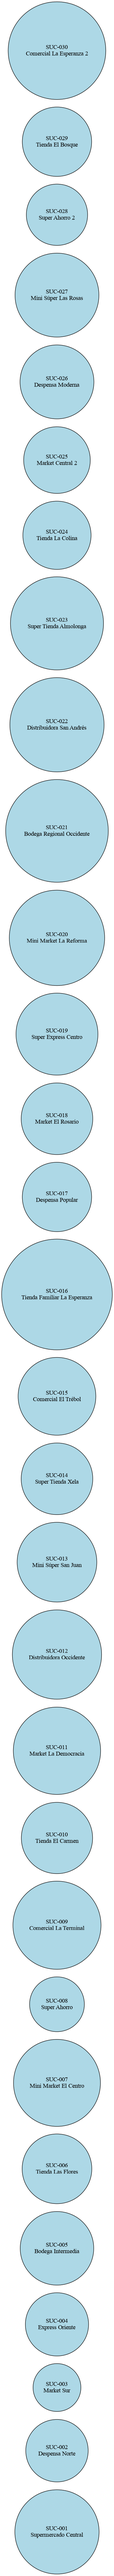
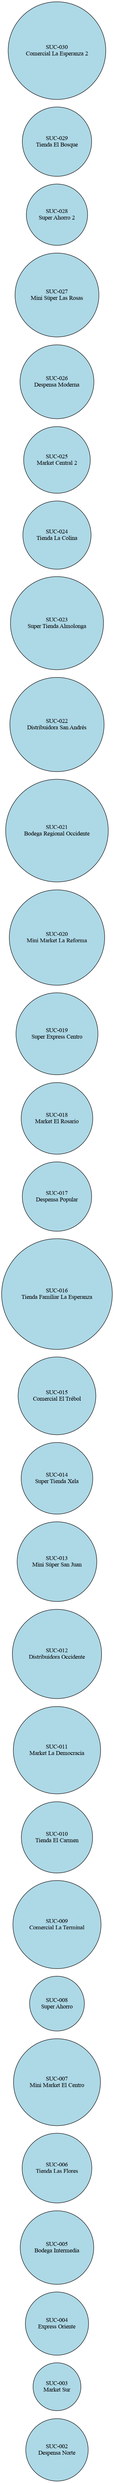
jar

Changed region(s): [[0.0, 0.0311, 0.9944, 1.0], [0.9011, 0.0, 0.9322, 0.0311], [0.0621, 0.0, 0.0932, 0.0311]]

diff --git a/Gestor de Supermecado /Codigo Fuente/GestorSupermercado/src/main/java/com/ronaldo/gestor/front/paneles/PanelPrincipal.java b/Gestor de Supermecado /Codigo Fuente/GestorSupermercado/src/main/java/com/ronaldo/gestor/front/paneles/PanelPrincipal.java
@@ -43,9 +43,7 @@ public class PanelPrincipal extends javax.swing.JPanel {
         btnTransferencia = new javax.swing.JButton();
         jPanel8 = new javax.swing.JPanel();
         jLabel6 = new javax.swing.JLabel();
-        btnTranferencias2 = new javax.swing.JButton();
         btnRed = new javax.swing.JButton();
-        jLabel8 = new javax.swing.JLabel();
         jPanel1 = new javax.swing.JPanel();
         btnCargarCSV = new javax.swing.JButton();
         panelSucursales = new javax.swing.JPanel();
@@ -105,7 +103,7 @@ public class PanelPrincipal extends javax.swing.JPanel {
                 .addComponent(btnNuevaSucursal, javax.swing.GroupLayout.PREFERRED_SIZE, 34, javax.swing.GroupLayout.PREFERRED_SIZE)
                 .addGap(18, 18, 18)
                 .addComponent(btnTransferencia, javax.swing.GroupLayout.PREFERRED_SIZE, 34, javax.swing.GroupLayout.PREFERRED_SIZE)
-                .addContainerGap(64, Short.MAX_VALUE))
+                .addContainerGap(28, Short.MAX_VALUE))
         );
 
         jPanel8.setBorder(new javax.swing.border.LineBorder(new java.awt.Color(0, 0, 0), 1, true));
@@ -116,13 +114,8 @@ public class PanelPrincipal extends javax.swing.JPanel {
         jLabel6.setHorizontalAlignment(javax.swing.SwingConstants.CENTER);
         jLabel6.setText("Analisis");
 
-        btnTranferencias2.setText("Rendimiento");
-
         btnRed.setText("Red");
         btnRed.addActionListener(this::btnRedActionPerformed);
-
-        jLabel8.setForeground(new java.awt.Color(0, 0, 0));
-        jLabel8.setText("AVL vs Hash vs Lista");
 
         javax.swing.GroupLayout jPanel8Layout = new javax.swing.GroupLayout(jPanel8);
         jPanel8.setLayout(jPanel8Layout);
@@ -131,26 +124,16 @@ public class PanelPrincipal extends javax.swing.JPanel {
             .addComponent(jLabel6, javax.swing.GroupLayout.DEFAULT_SIZE, javax.swing.GroupLayout.DEFAULT_SIZE, Short.MAX_VALUE)
             .addGroup(jPanel8Layout.createSequentialGroup()
                 .addContainerGap()
-                .addGroup(jPanel8Layout.createParallelGroup(javax.swing.GroupLayout.Alignment.LEADING)
-                    .addComponent(btnTranferencias2, javax.swing.GroupLayout.DEFAULT_SIZE, 203, Short.MAX_VALUE)
-                    .addComponent(btnRed, javax.swing.GroupLayout.Alignment.TRAILING, javax.swing.GroupLayout.DEFAULT_SIZE, javax.swing.GroupLayout.DEFAULT_SIZE, Short.MAX_VALUE)
-                    .addGroup(javax.swing.GroupLayout.Alignment.TRAILING, jPanel8Layout.createSequentialGroup()
-                        .addGap(0, 0, Short.MAX_VALUE)
-                        .addComponent(jLabel8, javax.swing.GroupLayout.PREFERRED_SIZE, 168, javax.swing.GroupLayout.PREFERRED_SIZE)
-                        .addGap(0, 0, Short.MAX_VALUE)))
+                .addComponent(btnRed, javax.swing.GroupLayout.DEFAULT_SIZE, 203, Short.MAX_VALUE)
                 .addContainerGap())
         );
         jPanel8Layout.setVerticalGroup(
             jPanel8Layout.createParallelGroup(javax.swing.GroupLayout.Alignment.LEADING)
             .addGroup(jPanel8Layout.createSequentialGroup()
                 .addComponent(jLabel6)
-                .addPreferredGap(javax.swing.LayoutStyle.ComponentPlacement.RELATED)
-                .addComponent(jLabel8)
-                .addGap(2, 2, 2)
-                .addComponent(btnTranferencias2, javax.swing.GroupLayout.PREFERRED_SIZE, 34, javax.swing.GroupLayout.PREFERRED_SIZE)
                 .addGap(18, 18, 18)
                 .addComponent(btnRed, javax.swing.GroupLayout.PREFERRED_SIZE, 34, javax.swing.GroupLayout.PREFERRED_SIZE)
-                .addContainerGap(67, Short.MAX_VALUE))
+                .addContainerGap(20, Short.MAX_VALUE))
         );
 
         javax.swing.GroupLayout jPanel4Layout = new javax.swing.GroupLayout(jPanel4);
@@ -165,9 +148,9 @@ public class PanelPrincipal extends javax.swing.JPanel {
             .addGroup(jPanel4Layout.createSequentialGroup()
                 .addGap(82, 82, 82)
                 .addComponent(jPanel5, javax.swing.GroupLayout.PREFERRED_SIZE, javax.swing.GroupLayout.DEFAULT_SIZE, javax.swing.GroupLayout.PREFERRED_SIZE)
-                .addPreferredGap(javax.swing.LayoutStyle.ComponentPlacement.RELATED)
+                .addGap(42, 42, 42)
                 .addComponent(jPanel8, javax.swing.GroupLayout.PREFERRED_SIZE, javax.swing.GroupLayout.DEFAULT_SIZE, javax.swing.GroupLayout.PREFERRED_SIZE)
-                .addContainerGap(88, Short.MAX_VALUE))
+                .addContainerGap(196, Short.MAX_VALUE))
         );
 
         jPanel1.setBackground(new java.awt.Color(204, 255, 204));
@@ -512,7 +495,6 @@ public class PanelPrincipal extends javax.swing.JPanel {
     private javax.swing.JButton btnCargarCSV;
     private javax.swing.JButton btnNuevaSucursal;
     private javax.swing.JButton btnRed;
-    private javax.swing.JButton btnTranferencias2;
     private javax.swing.JButton btnTransferencia;
     private javax.swing.JLabel jLabel1;
     private javax.swing.JLabel jLabel2;
@@ -521,7 +503,6 @@ public class PanelPrincipal extends javax.swing.JPanel {
     private javax.swing.JLabel jLabel5;
     private javax.swing.JLabel jLabel6;
     private javax.swing.JLabel jLabel7;
-    private javax.swing.JLabel jLabel8;
     private javax.swing.JPanel jPanel1;
     private javax.swing.JPanel jPanel2;
     private javax.swing.JPanel jPanel3;
